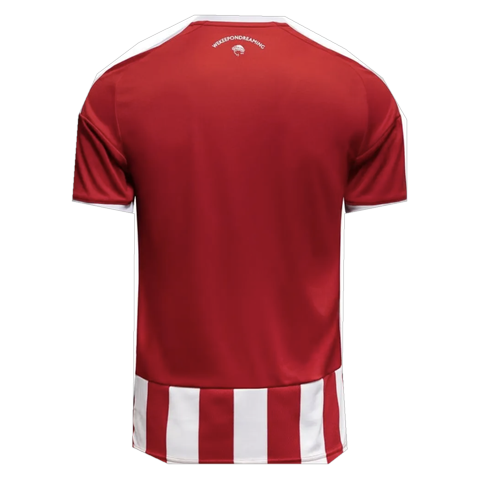
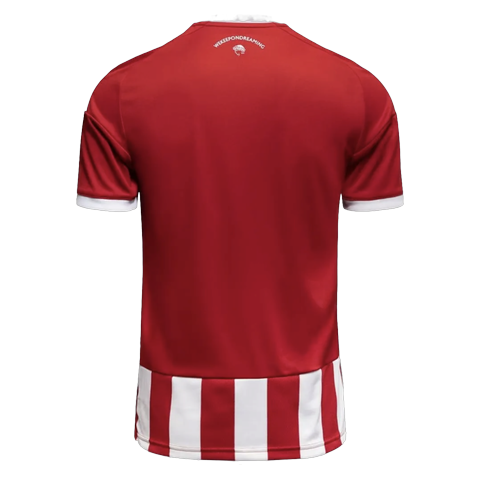
Φανέλες και σκουφάκι: καθαρότερο κόψιμο με μοντέλο αφαίρεσης φόντου
Claude-Session: https://claude.ai/code/session_01BE28NuiU839gujPCXEFcvf

Changed region(s): [[0.125, 0.1562, 0.875, 0.9688], [0.2188, 0.0312, 0.625, 0.1562], [0.625, 0.0625, 0.7812, 0.1562]]

diff --git a/index.html b/index.html
@@ -1214,7 +1214,7 @@ function openMatch(it,liveCard){
   document.addEventListener("keydown",esc);x.onclick=close;sc.addEventListener("click",e=>{if(e.target===sc)close()});x.focus();
 }
 function jersey(sport,no){const n=no!=null&&no!==""?String(no):"";const col=getComputedStyle(document.documentElement).getPropertyValue("--red").trim()||"#C8102E";
-  if(sport&&sport.startsWith("polo"))return `<svg viewBox="0 0 120 120" aria-hidden="true"><image href="assets/jerseys/polo.png" x="0" y="0" width="120" height="120"/><text x="67.6" y="37" text-anchor="middle" font-family="Fira Sans Extra Condensed,Arial Narrow,sans-serif" font-weight="900" font-size="${n.length>2?24:34}" fill="#12307F">${n}</text></svg>`;
+  if(sport&&sport.startsWith("polo"))return `<svg viewBox="0 0 120 120" aria-hidden="true"><image href="assets/jerseys/polo.png" x="0" y="0" width="120" height="120"/><text x="65.6" y="33.5" text-anchor="middle" font-family="Fira Sans Extra Condensed,Arial Narrow,sans-serif" font-weight="900" font-size="${n.length>2?24:34}" fill="#12307F">${n}</text></svg>`;
   if(sport==="basketball")return `<svg viewBox="0 0 120 120" aria-hidden="true"><image href="assets/jerseys/basketball.png" x="0" y="0" width="120" height="120"/><text x="63.5" y="52" text-anchor="middle" font-family="Fira Sans Extra Condensed,Arial Narrow,sans-serif" font-weight="900" font-size="${n.length>2?20:28}" fill="#E31B23" stroke="#fff" stroke-width="1.2" paint-order="stroke">${n}</text></svg>`;
   return `<svg viewBox="0 0 120 120" aria-hidden="true"><image href="assets/jerseys/football.png" x="0" y="0" width="120" height="120"/><text x="60" y="52" text-anchor="middle" font-family="Fira Sans Extra Condensed,Arial Narrow,sans-serif" font-weight="900" font-size="${n.length>2?22:30}" fill="#fff" stroke="#9E1B24" stroke-width="1.4" paint-order="stroke">${n}</text></svg>`}
 function openPlayer(p,sport){

diff --git a/sw.js b/sw.js
@@ -1,4 +1,4 @@
-const C="thr-v22",SH=["./","manifest.webmanifest","icons/icon-180.png","icons/icon-192.png","icons/icon-512.png","assets/gate7.jpg","assets/oly-football.jpg","assets/oly-basketball.jpg","assets/oly-amateur.png","assets/ball-football.png","assets/ball-basketball.png","assets/ball-polo.png","assets/ball-volleyball.png","assets/ball-handball.png"];
+const C="thr-v23",SH=["./","manifest.webmanifest","icons/icon-180.png","icons/icon-192.png","icons/icon-512.png","assets/gate7.jpg","assets/oly-football.jpg","assets/oly-basketball.jpg","assets/oly-amateur.png","assets/ball-football.png","assets/ball-basketball.png","assets/ball-polo.png","assets/ball-volleyball.png","assets/ball-handball.png"];
 self.addEventListener("install",e=>{e.waitUntil(caches.open(C).then(c=>c.addAll(SH)).then(()=>self.skipWaiting()))});
 self.addEventListener("activate",e=>{e.waitUntil(caches.keys().then(k=>Promise.all(k.filter(x=>x!==C).map(x=>caches.delete(x)))).then(()=>self.clients.claim()))});
 self.addEventListener("fetch",e=>{const r=e.request;if(r.method!=="GET")return;const u=new URL(r.url);if(u.origin!==location.origin)return;
